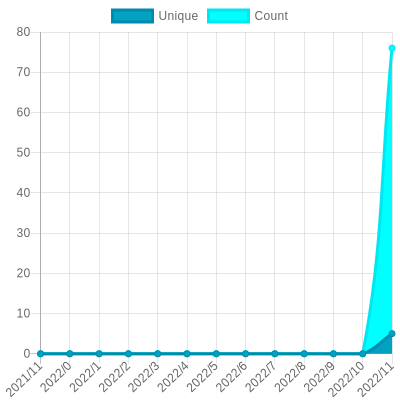
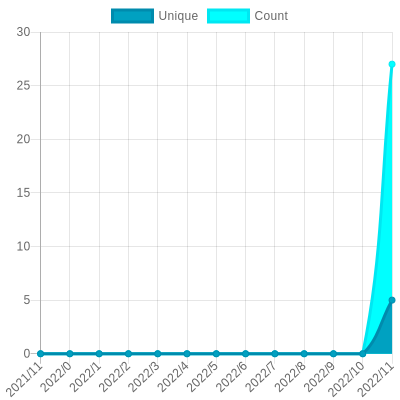
Update views

diff --git a/README.md b/README.md
@@ -35,9 +35,25 @@ The project created and maintained by [gayanvoice](https://github.com/gayanvoice
 			<img alt="Response time graph" src="https://github.com/theepdinker/tracking/raw/master/graph/437337990/small/year.png" height="20"> 239
 		</td>
 	</tr>
+	<tr>
+		<td>
+			<a href="https://github.com/theepdinker/tracking/tree/master/readme/268832845/year.md">
+				theepdinker.github.io
+			</a>
+		</td>
+		<td>
+			2021/12/23 1:01 AM UTC
+		</td>
+		<td>
+			7
+		</td>
+		<td>
+			<img alt="Response time graph" src="https://github.com/theepdinker/tracking/raw/master/graph/268832845/small/year.png" height="20"> 81
+		</td>
+	</tr>
 </table>
 
-<small><i>Last updated on 2021/12/25 1:00 AM UTC</i></small>
+<small><i>Last updated on 2021/12/25 6:22 AM UTC</i></small>
 
 ## ✂Copy and 📋 Paste
 ### Total Views Badge

diff --git a/readme/268832845/year.md b/readme/268832845/year.md
@@ -26,7 +26,7 @@
 			<code>5</code>
 		</td>
 		<td>
-			<code>76</code>
+			<code>27</code>
 		</td>
 	</tr>
 	<tr>
@@ -164,7 +164,7 @@
 </table>
 
 </details>
-<small><i>Last updated on 2021/12/24 6:21 PM UTC</i></small>
+<small><i>Last updated on 2021/12/25 6:21 AM UTC</i></small>
 
 ## ✂Copy and 📋 Paste
 ### SVG Badge

diff --git a/readme/437337990/year.md b/readme/437337990/year.md
@@ -164,7 +164,7 @@
 </table>
 
 </details>
-<small><i>Last updated on 2021/12/25 1:00 AM UTC</i></small>
+<small><i>Last updated on 2021/12/25 6:21 AM UTC</i></small>
 
 ## ✂Copy and 📋 Paste
 ### SVG Badge
